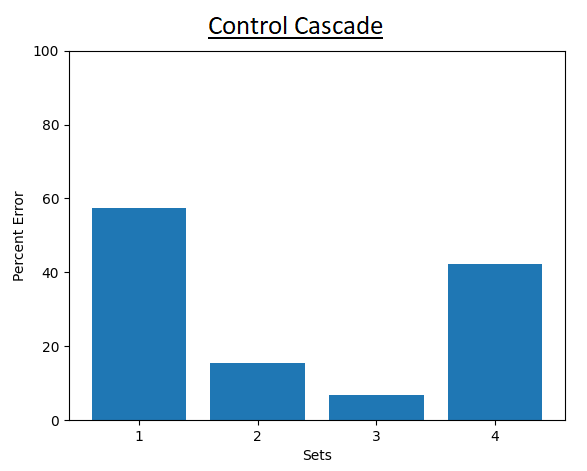
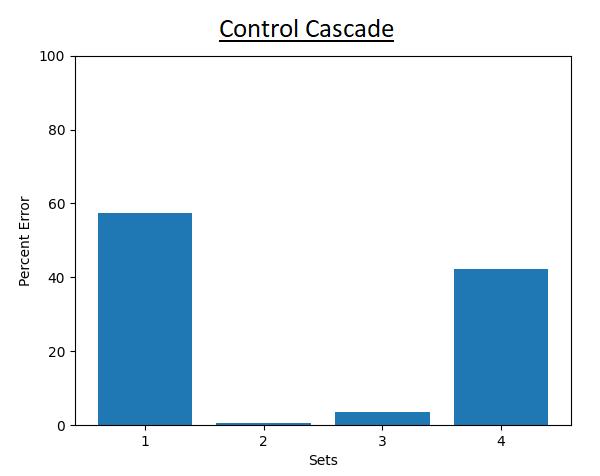
x

Changed region(s): [[0.0, 0.0297, 0.9813, 0.9512], [0.5213, 0.9512, 0.5826, 0.9809]]

diff --git a/code/main.py b/code/main.py
@@ -9,14 +9,14 @@ fileDir_SET_2 = "Resources/Images/Set_2"
 fileDir_SET_3 = "Resources/Images/Set_3"
 fileDir_SET_4 = "Resources/Images/Set_4"
 
-trainedSet_0 = "Resources/Trained_Sets/haarcascade_frontalface_default.xml"
+trainedSet_0 = "Resources\Trainer\haarcascade_frontalface_default.xml"
 trainedSet_1 = "Resources\Trainer\T_Set_1\classifier\cascade.xml"
 trainedSet_2 = "Resources\Trainer\T_Set_2\classifier\cascade.xml"
 trainedSet_3 = "Resources\Trainer\T_Set_3\classifier\cascade.xml"
 trainedSet_4 = "Resources\Trainer\T_Set_4\classifier\cascade.xml"
 
 waitTime = int(input("how long should each image stay on screen in ms? (0: until manually close)"))
-faceCascade = cv2.CascadeClassifier(trainedSet_2)
+faceCascade = cv2.CascadeClassifier(trainedSet_0)
 sets = [fileDir_SET_1, fileDir_SET_2, fileDir_SET_3]
 
 numFaces = []
@@ -54,7 +54,7 @@ for set_i in sets:
     print("Number of Doubles: ", numDoubles[it])
     print("Number of Errors : ", numErrors[it])
     print("Total Error %    : ", errorPercent[it], "%")
-    print("Time Elapsed     : ",  runtimes[it])
+    print("Adverage Runtime : ",  runtimes[it])
     print("-------------------------------------")
 
     CV2_func.numFaces = 0

diff --git a/code/CV2_func.py b/code/CV2_func.py
@@ -25,9 +25,9 @@ def FindFace(fileDir, faceCas, waitTime):
                 numRuns += 1
                 cv2.rectangle(img, (x,y), (x+w, y+h), (255, 0, 0), 2)
                 
-                if(numRuns == 1 or numRuns == 2):
+                if(numRuns == 1):
                     numFaceHits += 1
-                elif(numRuns == 3):
+                elif(numRuns == 2):
                     numDoubles += 1
                 
             cv2.imshow("output", img)

diff --git a/code/greyCvt.py b/code/greyCvt.py
@@ -5,8 +5,8 @@ import os,glob
 from os import listdir,makedirs
 
 from os.path import isfile,join
-path = 'Resources\Images\Set_3' # Source Folder
-dstpath = 'Resources/Trainer/T_Set_3/p' # Destination Folder
+path = 'Resources\Images\Set_4' # Source Folder
+dstpath = 'Resources/Trainer/T_Set_4/p' # Destination Folder
 try:
     makedirs(dstpath)
 except:
